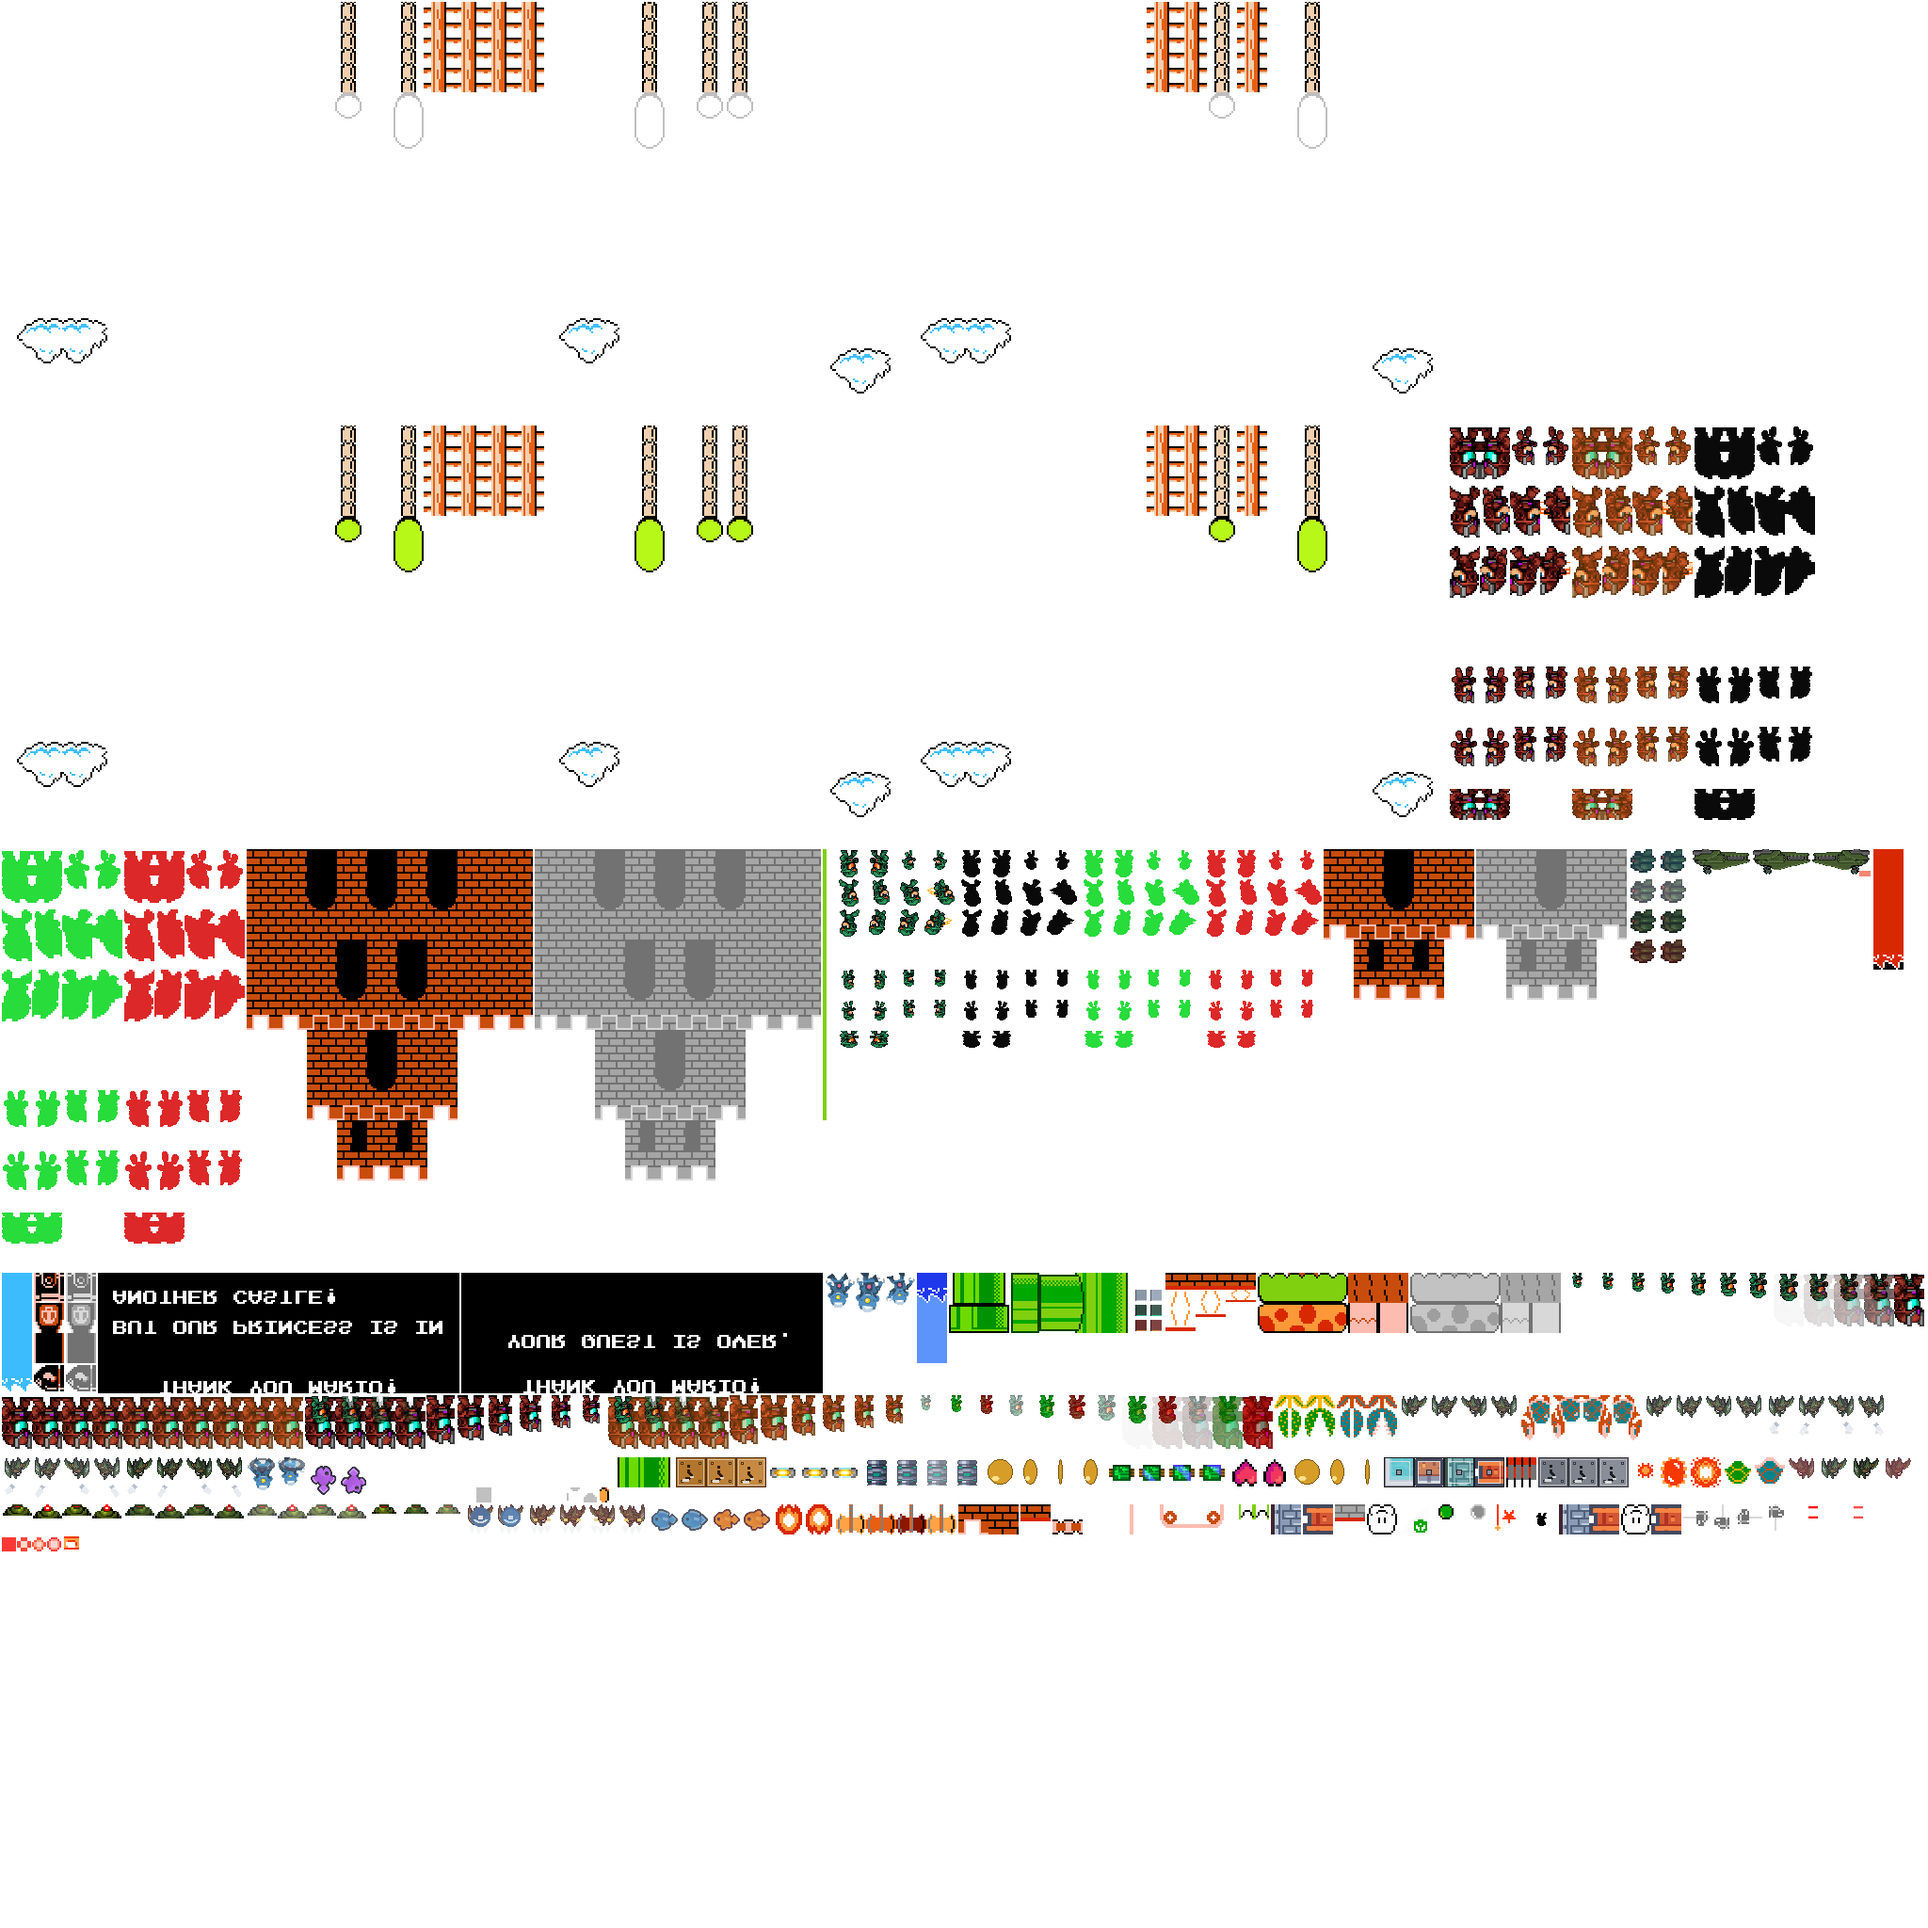
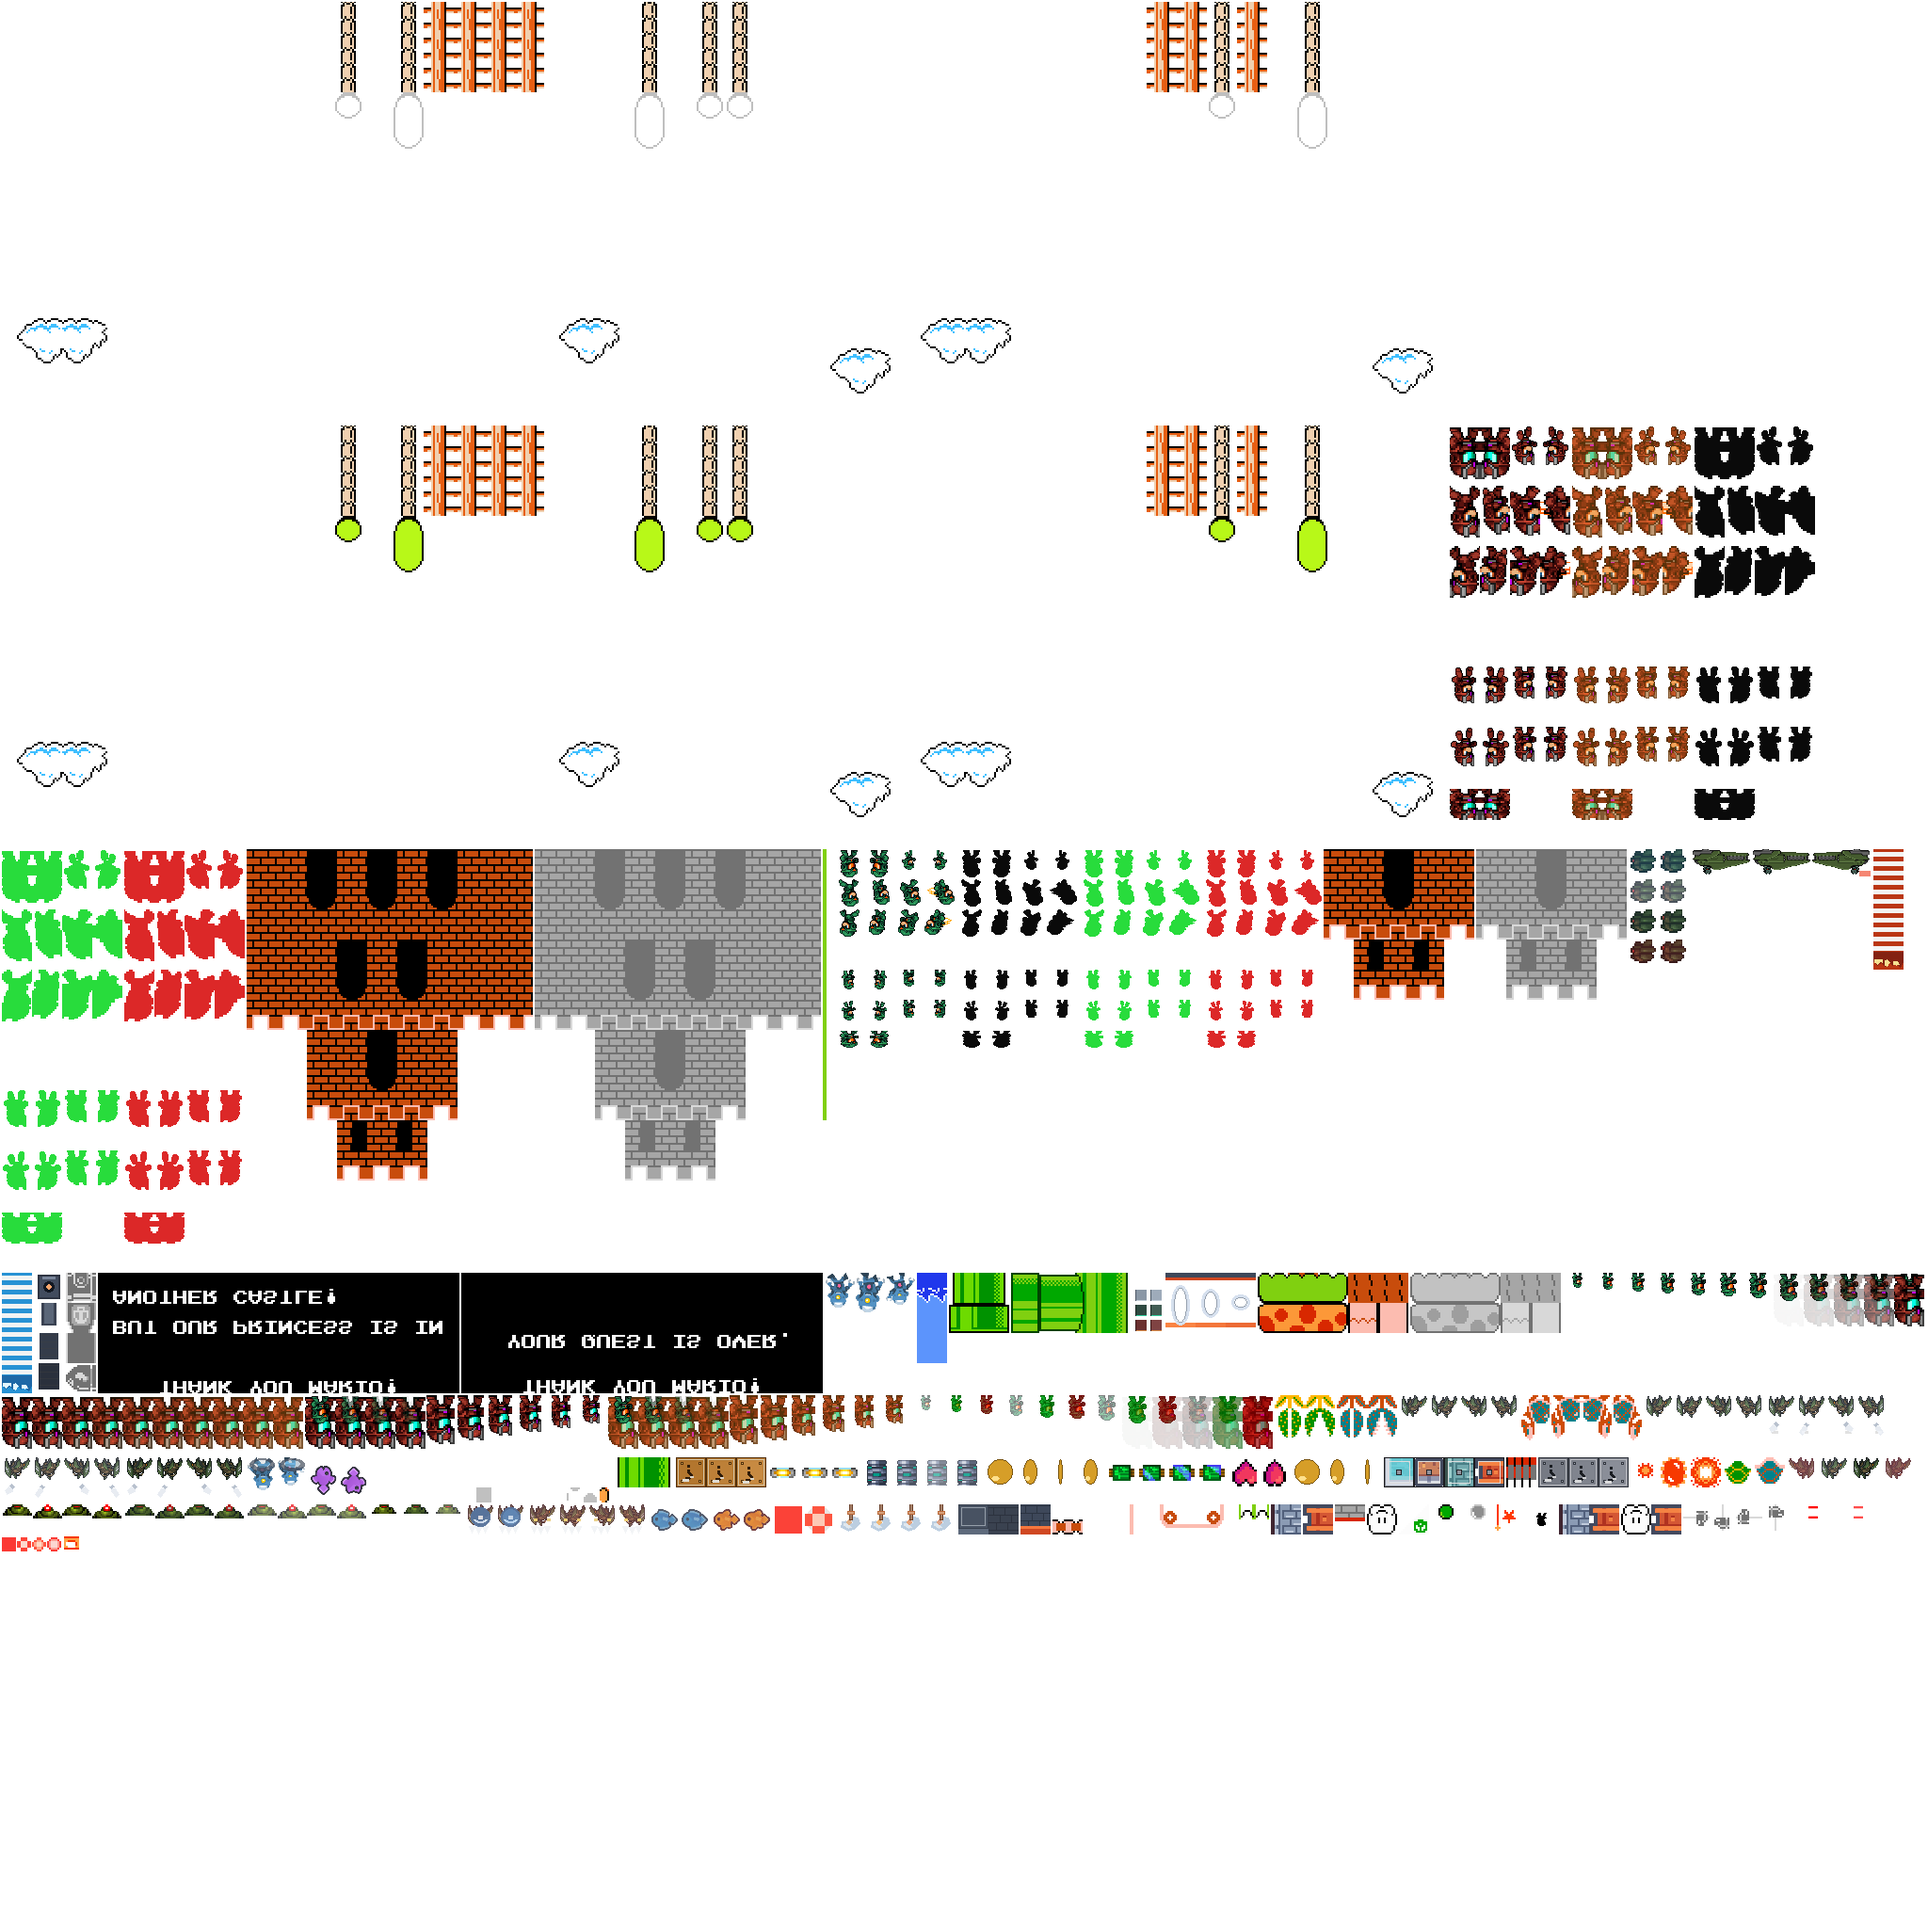
task 13,14

diff --git a/docs/assets/mario-sprites/ampere-staging/build_r4_task14_wall_launcher_bouncer_spring.py b/docs/assets/mario-sprites/ampere-staging/build_r4_task14_wall_launcher_bouncer_spring.py
@@ -1,0 +1,100 @@
+from PIL import Image, ImageDraw
+
+OUT = "C:/workspace/morsecode/docs/assets/mario-sprites/reskin-source"
+
+
+def wall_sheet():
+    # 2x1, 32x32 per frame: cap + body.
+    sheet = Image.new("RGBA", (64, 32), (0, 0, 0, 0))
+
+    cap = Image.new("RGBA", (32, 32), (56, 64, 78, 255))
+    d = ImageDraw.Draw(cap)
+    d.rectangle((0, 0, 31, 5), fill=(94, 106, 124, 255))
+    d.rectangle((1, 7, 30, 30), fill=(72, 82, 98, 255))
+    d.rectangle((3, 9, 28, 28), outline=(120, 136, 156, 210), width=1)
+
+    body = Image.new("RGBA", (32, 32), (58, 66, 80, 255))
+    b = ImageDraw.Draw(body)
+    for y in (4, 12, 20, 28):
+        b.line((0, y, 31, y), fill=(44, 50, 62, 255))
+    for x in (8, 20):
+        b.line((x, 4, x, 11), fill=(44, 50, 62, 255))
+        b.line((x + 4, 12, x + 4, 19), fill=(44, 50, 62, 255))
+        b.line((x - 3, 20, x - 3, 27), fill=(44, 50, 62, 255))
+
+    sheet.paste(cap, (0, 0), cap)
+    sheet.paste(body, (32, 0), body)
+    return sheet
+
+
+def rocket_launcher_sheet():
+    # 1x4, 32x32 rows: head, neck, body, deep body.
+    sheet = Image.new("RGBA", (32, 128), (0, 0, 0, 0))
+    d = ImageDraw.Draw(sheet)
+
+    # Head (row 0)
+    d.rectangle((4, 4, 27, 29), fill=(46, 52, 66, 255))
+    d.rectangle((6, 6, 25, 27), fill=(66, 76, 94, 255))
+    d.ellipse((10, 11, 21, 22), fill=(18, 24, 34, 255))
+    d.ellipse((13, 14, 18, 19), fill=(244, 152, 86, 220))
+    d.rectangle((9, 25, 22, 27), fill=(100, 114, 138, 220))
+
+    # Neck (row 1)
+    d.rectangle((8, 40, 23, 63), fill=(58, 66, 82, 255))
+    d.rectangle((11, 42, 20, 63), fill=(80, 92, 112, 240))
+
+    # Body (row 2)
+    d.rectangle((6, 68, 25, 95), fill=(52, 60, 74, 255))
+    for y in (72, 79, 86, 93):
+        d.line((7, y, 24, y), fill=(34, 40, 50, 230))
+
+    # Deep body (row 3, currently mostly unused but kept coherent).
+    d.rectangle((5, 100, 26, 127), fill=(42, 48, 60, 255))
+    for y in (104, 111, 118, 125):
+        d.line((6, y, 25, y), fill=(28, 32, 40, 230))
+
+    return sheet
+
+
+def bouncer_frame():
+    im = Image.new("RGBA", (32, 32), (62, 72, 90, 255))
+    d = ImageDraw.Draw(im)
+    d.rectangle((0, 0, 31, 5), fill=(208, 72, 34, 255))
+    d.rectangle((0, 6, 31, 8), fill=(246, 120, 62, 255))
+    for y in (14, 22, 30):
+        d.line((0, y, 31, y), fill=(44, 52, 66, 255))
+    for x in (8, 20):
+        d.line((x, 9, x, 13), fill=(44, 52, 66, 255))
+        d.line((x + 4, 15, x + 4, 21), fill=(44, 52, 66, 255))
+        d.line((x - 3, 23, x - 3, 29), fill=(44, 52, 66, 255))
+    return im
+
+
+def spring_sheet():
+    # 3x1, 32x64 per frame for Spring.java's tileSize x tileSize*2.
+    sheet = Image.new("RGBA", (96, 64), (0, 0, 0, 0))
+    top_colors = [(250, 132, 68, 255), (244, 118, 58, 255), (236, 106, 52, 255)]
+
+    # Coil bounding boxes by frame (rest -> squish -> compressed).
+    boxes = [(6, 8, 25, 50), (6, 16, 25, 46), (6, 24, 25, 40)]
+    for i in range(3):
+        fr = Image.new("RGBA", (32, 64), (0, 0, 0, 0))
+        d = ImageDraw.Draw(fr)
+        d.rectangle((0, 6, 31, 10), fill=top_colors[i])
+
+        x0, y0, x1, y1 = boxes[i]
+        d.ellipse((x0, y0, x1, y1), outline=(214, 224, 238, 255), width=3)
+        d.ellipse((x0 + 3, y0 + 3, x1 - 3, y1 - 3), outline=(122, 142, 166, 210), width=1)
+
+        d.rectangle((0, 58, 31, 63), fill=(62, 72, 90, 255))
+        d.rectangle((0, 56, 31, 58), fill=(208, 72, 34, 255))
+        sheet.paste(fr, (i * 32, 0), fr)
+    return sheet
+
+
+if __name__ == "__main__":
+    wall_sheet().save(f"{OUT}/Wall.png")
+    rocket_launcher_sheet().save(f"{OUT}/RocketLauncher.png")
+    bouncer_frame().save(f"{OUT}/Bouncer.png")
+    spring_sheet().save(f"{OUT}/Spring.png")
+    print("wrote Wall.png, RocketLauncher.png, Bouncer.png, Spring.png")

diff --git a/docs/assets/mario-sprites/ampere-staging/build_r4_task12_lava_water_family.py b/docs/assets/mario-sprites/ampere-staging/build_r4_task12_lava_water_family.py
@@ -1,0 +1,73 @@
+from PIL import Image, ImageDraw
+import sys
+
+sys.path.insert(0, "C:/workspace/morsecode/docs/assets/mario-sprites/ampere-staging")
+from sprite_tools import place_content, tint, verified_crop
+
+SRC = "C:/workspace/morsecode/docs/assets/mario-sprites/reskin-source"
+OUT = "C:/workspace/morsecode/docs/assets/mario-sprites/reskin-source"
+
+
+def make_column(fill_rgb, crest_rgb, foam_rgb):
+    # Preserve original asset geometry from C:/workspace/Mario/SandBox:
+    # Lava/Water are 32x128 single-frame textures.
+    im = Image.new("RGBA", (32, 128), (*fill_rgb, 255))
+    d = ImageDraw.Draw(im)
+
+    # Crest silhouette near the top edge.
+    crest = [
+        (0, 8), (4, 4), (8, 7), (12, 3), (16, 8), (20, 4), (24, 6), (28, 2), (31, 7),
+        (31, 18), (0, 18),
+    ]
+    d.polygon(crest, fill=(*crest_rgb, 255))
+
+    # Foam highlights to keep the top edge readable against dark backgrounds.
+    d.polygon([(1, 7), (4, 5), (7, 8), (9, 7), (9, 10), (1, 10)], fill=(*foam_rgb, 255))
+    d.polygon([(12, 4), (14, 3), (17, 7), (14, 10), (12, 9)], fill=(*foam_rgb, 255))
+    d.polygon([(21, 5), (24, 4), (27, 5), (25, 8), (21, 8)], fill=(*foam_rgb, 255))
+
+    # Subtle vertical shading bands.
+    for y in range(20, 128):
+        if y % 10 < 5:
+            d.line((0, y, 31, y), fill=(0, 0, 0, 12))
+
+    return im
+
+
+def make_lava_ball():
+    # Reuse the fireball family conceptually, but scale to LavaBall's 32x32 frames.
+    fire = Image.open(f"{SRC}/FireBall.png").convert("RGBA")
+    f0 = verified_crop(fire, (0, 0, 16, 16), "lava_ball base fire frame 0")
+    f1 = verified_crop(fire, (16, 0, 32, 16), "lava_ball base fire frame 1")
+
+    core0 = place_content(f0, 32, 32, fill=0.9, anchor="center")
+    core1 = place_content(f1, 32, 32, fill=0.9, anchor="center")
+
+    halo0 = Image.new("RGBA", (32, 32), (0, 0, 0, 0))
+    h0 = ImageDraw.Draw(halo0)
+    h0.ellipse((3, 3, 28, 28), fill=(255, 118, 72, 74))
+    h0.ellipse((7, 7, 24, 24), fill=(255, 168, 96, 92))
+
+    halo1 = Image.new("RGBA", (32, 32), (0, 0, 0, 0))
+    h1 = ImageDraw.Draw(halo1)
+    h1.ellipse((2, 2, 29, 29), fill=(255, 124, 76, 90))
+    h1.ellipse((6, 6, 25, 25), fill=(255, 182, 110, 108))
+
+    frame0 = Image.alpha_composite(halo0, tint(core0, (255, 120, 82), 0.15))
+    frame1 = Image.alpha_composite(halo1, tint(core1, (255, 146, 96), 0.22))
+
+    sheet = Image.new("RGBA", (64, 32), (0, 0, 0, 0))
+    sheet.paste(frame0, (0, 0), frame0)
+    sheet.paste(frame1, (32, 0), frame1)
+    return sheet
+
+
+if __name__ == "__main__":
+    lava = make_column(fill_rgb=(186, 54, 20), crest_rgb=(132, 34, 18), foam_rgb=(245, 224, 146))
+    water = make_column(fill_rgb=(40, 146, 212), crest_rgb=(30, 104, 166), foam_rgb=(226, 246, 255))
+    lava_ball = make_lava_ball()
+
+    lava.save(f"{OUT}/Lava.png")
+    water.save(f"{OUT}/Water.png")
+    lava_ball.save(f"{OUT}/LavaBall.png")
+    print("wrote Lava.png, Water.png, LavaBall.png")

diff --git a/docs/assets/mario-sprites/ampere-staging/build_r4_task13_axe.py b/docs/assets/mario-sprites/ampere-staging/build_r4_task13_axe.py
@@ -1,0 +1,34 @@
+from PIL import Image, ImageDraw
+
+OUT = "C:/workspace/morsecode/docs/assets/mario-sprites/reskin-source"
+
+
+def axe_frame(phase):
+    im = Image.new("RGBA", (32, 32), (0, 0, 0, 0))
+    d = ImageDraw.Draw(im)
+
+    blade = [
+        (5, 7), (13, 3), (19, 5), (25, 11), (23, 17), (17, 19),
+        (15, 16), (18, 12), (14, 10), (10, 14), (6, 13),
+    ]
+    d.polygon(blade, fill=(188, 206, 224, 255))
+    d.polygon([(8, 9), (13, 6), (16, 7), (12, 11), (8, 11)], fill=(236, 246, 255, 235))
+
+    # Core pulse gives a 4-frame shimmer for Axe.java's animation strip.
+    pulse = [(255, 170, 96, 210), (255, 186, 108, 240), (255, 152, 90, 220), (255, 138, 82, 200)][phase]
+    d.ellipse((11, 10, 16, 15), fill=pulse)
+
+    d.rectangle((14, 15, 17, 31), fill=(106, 64, 42, 255))
+    d.rectangle((15, 16, 16, 31), fill=(156, 100, 64, 220))
+    d.rectangle((12, 21, 19, 24), fill=(188, 106, 58, 255))
+    d.rectangle((13, 22, 18, 23), fill=(230, 150, 92, 220))
+    return im
+
+
+if __name__ == "__main__":
+    sheet = Image.new("RGBA", (128, 32), (0, 0, 0, 0))
+    for i in range(4):
+        fr = axe_frame(i)
+        sheet.paste(fr, (i * 32, 0), fr)
+    sheet.save(f"{OUT}/Axe.png")
+    print("wrote Axe.png")

diff --git a/docs/mario/MARIO_RESKIN_EXECUTION.md b/docs/mario/MARIO_RESKIN_EXECUTION.md
@@ -651,6 +651,32 @@ closes.
       (`67 / 122` overlay) and compile-checked (`:app:compileDebugJavaWithJavac`
       successful).
 
+      **2026-09-10: Task 12 (`lava`/`lava_ball`/`water`) done**
+      (`docs/assets/mario-sprites/ampere-staging/build_r4_task12_lava_water_family.py`) —
+      rebuilt `Lava.png` (1x1), `LavaBall.png` (2x1), and `Water.png` (1x1), matching
+      `PackMarioAtlas` filenames and `LavaBall.java`'s 2-frame 32x32 contract. Preserved
+      the fallback source geometry for scenery columns (`Lava`/`Water` as 32x128), while
+      re-theming the surface/foam colors; `LavaBall` reuses the already-reskinned
+      `FireBall` concept with a larger haloed two-frame burst. Packed clean
+      (`70 / 122` overlay) and compile-checked (`:app:compileDebugJavaWithJavac`
+      successful).
+
+      **2026-09-10: Task 13 (`axe`) done**
+      (`docs/assets/mario-sprites/ampere-staging/build_r4_task13_axe.py`) — rebuilt
+      `Axe.png` (4x1, 32x32) matching `Axe.java`'s 6-step frame sequence
+      (`0,1,2,3,2,1`) with per-frame core shimmer so the loop reads as active.
+      Packed clean (`71 / 122` overlay) and compile-checked
+      (`:app:compileDebugJavaWithJavac` successful).
+
+      **2026-09-10: Task 14 (`wall`/`rocket_launcher`/`bouncer`/`spring`) done**
+      (`docs/assets/mario-sprites/ampere-staging/build_r4_task14_wall_launcher_bouncer_spring.py`) —
+      rebuilt `Wall.png` (2x1), `RocketLauncher.png` (1x4), `Bouncer.png` (1x1), and
+      `Spring.png` (3x1 with 32x64 frames), matching `LevelLoader.spawnWall(...)`'s top/body
+      split, `spawnRocketLauncher(...)`'s row-mapped launcher/body segments, `Bouncer.java`'s
+      static pad usage, and `Spring.java`'s 3-frame squish strip. Packed clean
+      (`75 / 122` overlay) and compile-checked (`:app:compileDebugJavaWithJavac`
+      successful).
+
       **Still open for R.4** (tier-3/4 per §16.4, not yet started): tier-4's long tail of
       one-off enemies/mechanisms.
 
